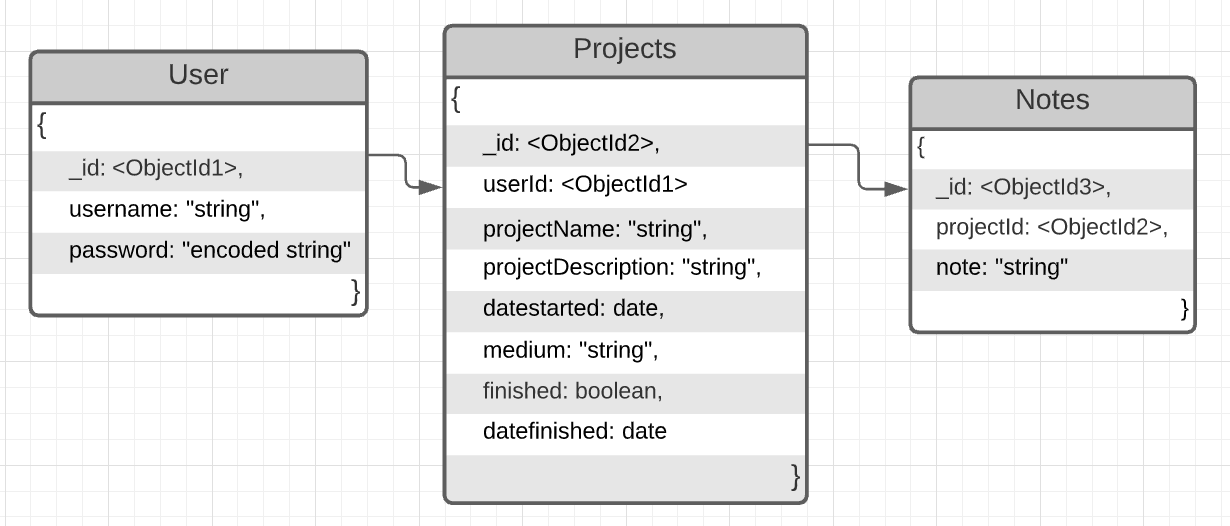
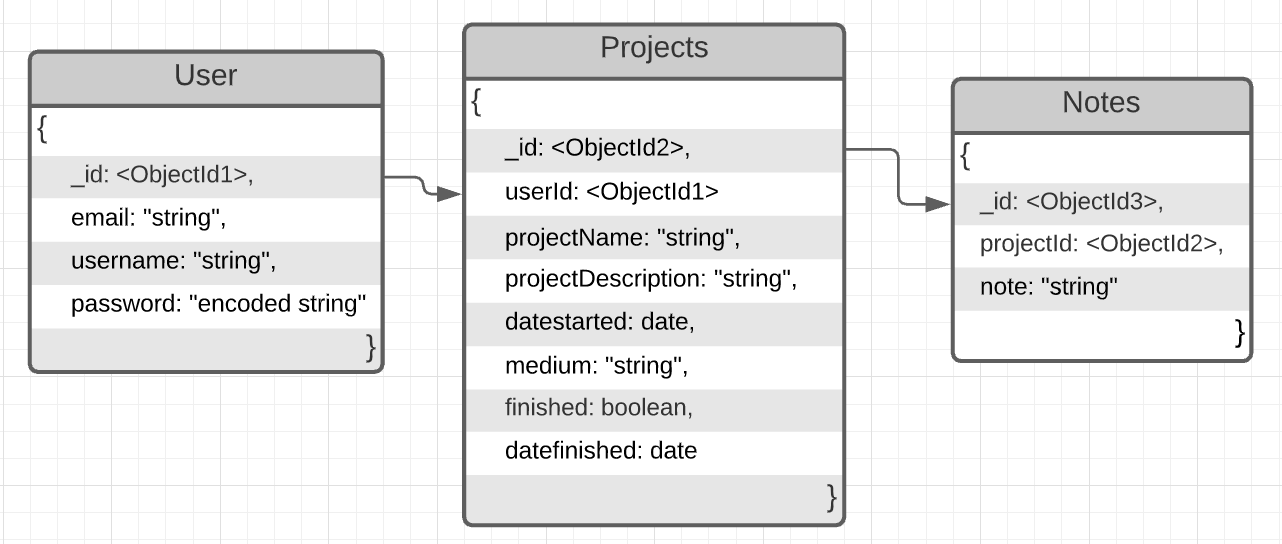
updated README

diff --git a/README.md b/README.md
@@ -15,22 +15,24 @@ This is a backend server for a project management application. User's will be ab
 ### ENV requirements
 
 ```js
-SECRET=addrandomsecret
+PORT=add port number here  
+SECRET=addrandomsecret  
+MONGODB_URI=link to mongo database here
 ```
 
 ## How To Run
 
 ### How to use HTTP Pie in the Terminal to Run Routes
 
-#### Authorization Enpoints
+#### Authorization Routes
 
 ``` js
-    http POST :3000/signup username=<add username here> password=<add password here>
+    http POST :3000/signup email=<add email here> username=<add username here> password=<add password here>
 ```
 
 ---
 
-#### Project Endpoints
+#### Project Routes
 
 ```js
     // checkback later for this
@@ -45,6 +47,7 @@ SECRET=addrandomsecret
 **Required Parameters:**
 
 >Request Body (JSON):
+>- email - _String_ (required)
 >- username - _String_ (required)
 >- password - _String_ (required)
 
@@ -58,7 +61,7 @@ SECRET=addrandomsecret
 
 ---
 
-### Projects
+### Project Endpoints
 
 ## Testing
 
@@ -66,8 +69,7 @@ SECRET=addrandomsecret
 
 ![DataModel](./assets/DataModel.png)
 
-## UML (Unified Modeling Language)
-
 ## Sources
 
-[Alexandre Sanlim's README on Badges](https://github.com/alexandresanlim/Badges4-README.md-Profile)
+[Alexandre Sanlim's README on Badges](https://github.com/alexandresanlim/Badges4-README.md-Profile)  
+[YouTube Video: How to Add Reset Password](https://www.youtube.com/watch?v=lLVmH6SB2Z4)
